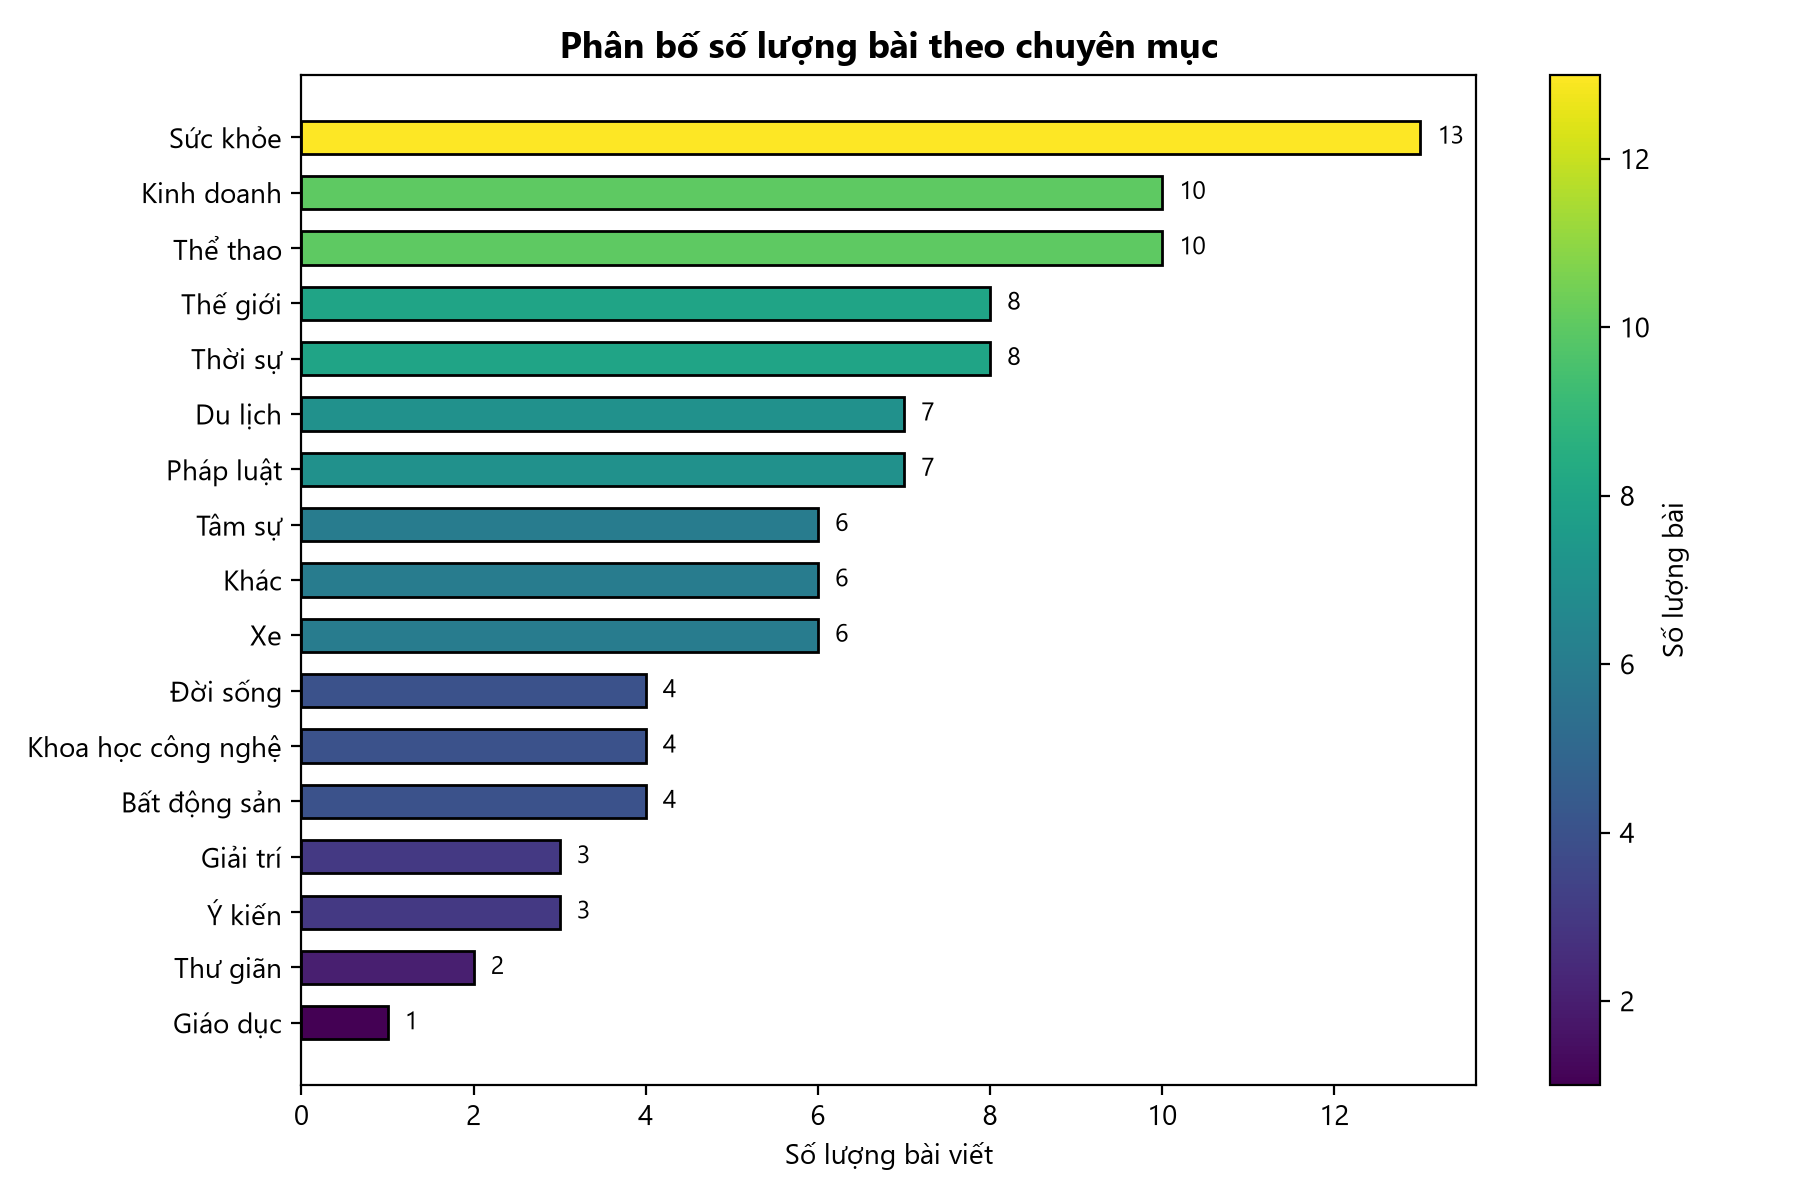
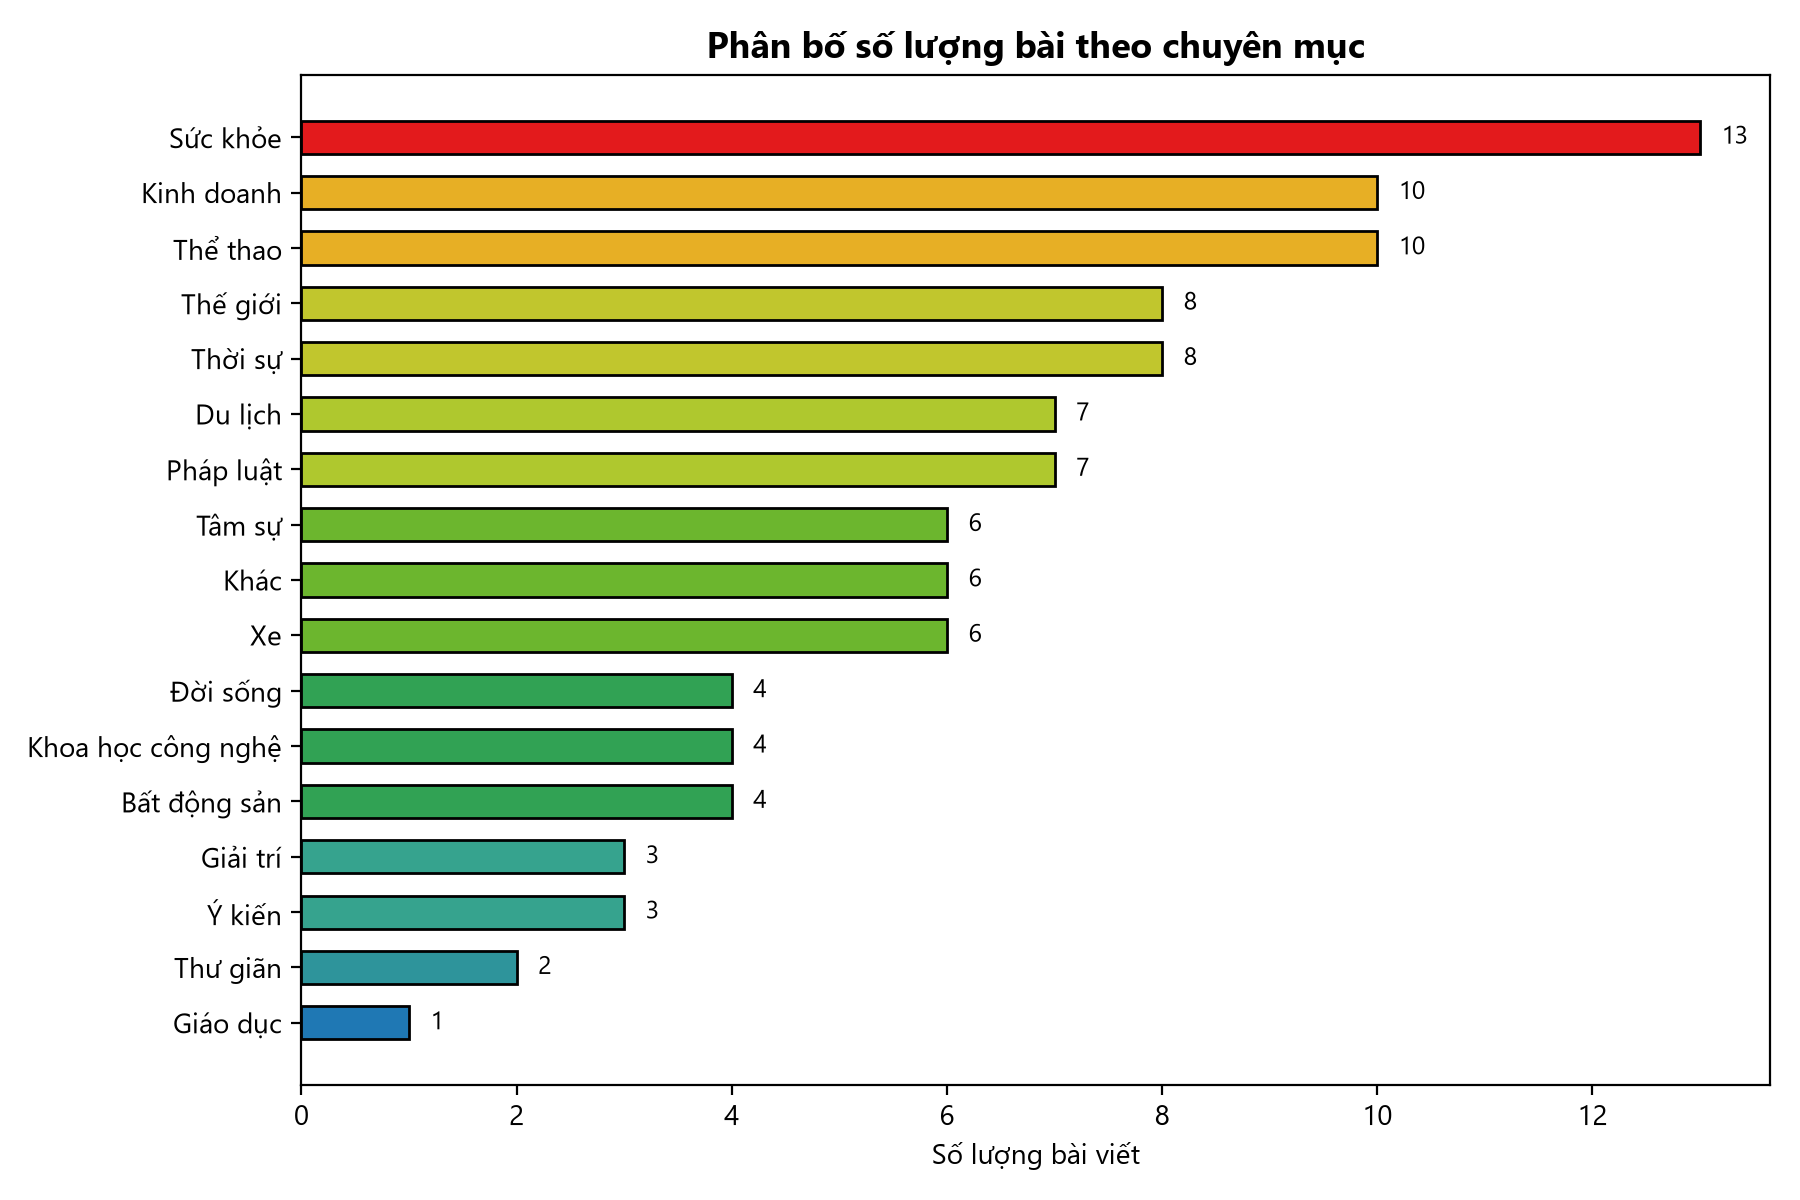
Đổi màu biểu đồ EDA sang bảng 20 màu rời (least=lam, avg=lục, most=đỏ)
- Bỏ gradient viridis + colorbar, thay bằng phân bậc rời cách đều trên [min, max]
- Chèn vàng/cam giữa xanh lá và đỏ để vùng chuyển không bị nâu do nội suy RGB
- Đường trung bình ở histogram đổi sang nét đứt xám đậm

diff --git a/EDA + charts/Charts.py b/EDA + charts/Charts.py
@@ -6,10 +6,6 @@ import pyodbc  # type: ignore
 import pandas as pd  # type: ignore
 # pyrefly: ignore[missing-import]
 import matplotlib.pyplot as plt  # type: ignore
-# pyrefly: ignore[missing-import]
-import matplotlib.cm as cm  # type: ignore
-# pyrefly: ignore[missing-import]
-import matplotlib.colors as mcolors  # type: ignore
 
 # Đảm bảo hiển thị tiếng Việt chuẩn trên Console và Biểu đồ
 sys.stdout.reconfigure(encoding="utf-8")
@@ -49,6 +45,25 @@ def luu_anh(fig, ten_file):
     plt.close(fig)
     print(f"[+] Đã lưu: {ten_file}")
 
+#Bảng 20 màu rời cách đều: thấp nhất = xanh biển -> giữa = xanh lá -> cao nhất = đỏ
+#Chèn vàng/cam giữa xanh lá và đỏ để vùng chuyển không bị nâu (lỗi nội suy RGB)
+PALETTE = ["#1f78b4", "#2786a7", "#2e949b", "#36a38e", "#34a473",
+           "#31a254", "#2da136", "#46a92d", "#6cb62e", "#93c32f",
+           "#afc82e", "#c1c62d", "#d4c32b", "#e2bd29", "#e7af25",
+           "#eca221", "#ef8f1e", "#eb681d", "#e7411d", "#e31a1c"]
+
+#Gán mỗi giá trị vào 1 trong 20 bậc màu cách đều nhau trên đoạn [min, max]
+def mau_theo_gia_tri(values):
+    vmin, vmax = min(values), max(values)
+    if vmax == vmin:
+        return [PALETTE[len(PALETTE) // 2]] * len(values)
+    buoc = (vmax - vmin) / (len(PALETTE) - 1)
+    mau = []
+    for v in values:
+        idx = min(max(int(round((v - vmin) / buoc)), 0), len(PALETTE) - 1)
+        mau.append(PALETTE[idx])
+    return mau
+
 #Phân tích khám phá dữ liệu (EDA) và xuất 4 biểu đồ ra 4 file PNG riêng
 def generate_eda_charts():
     df = get_data_from_sql()
@@ -74,27 +89,24 @@ def generate_eda_charts():
     print(df["category"].value_counts().to_string())
     print("===========================\n")
 
-    # 3. BIỂU ĐỒ 1: Phân bố chuyên mục (Bar Chart, màu gradient theo số bài)
+    # 3. BIỂU ĐỒ 1: Phân bố chuyên mục (Bar Chart, màu theo mốc least/avg/most)
     fig1, ax1 = plt.subplots(figsize=(9, 6))
     cat_counts = df["category"].value_counts().sort_values(ascending=True)
-    norm1 = mcolors.Normalize(vmin=cat_counts.min(), vmax=cat_counts.max())
-    bars1 = ax1.barh(cat_counts.index, cat_counts.values, color=cm.viridis(norm1(cat_counts.values)), edgecolor="black", height=0.6)
+    bars1 = ax1.barh(cat_counts.index, cat_counts.values, color=mau_theo_gia_tri(cat_counts.values), edgecolor="black", height=0.6)
     ax1.set_title("Phân bố số lượng bài theo chuyên mục", fontsize=13, fontweight="bold")
     ax1.set_xlabel("Số lượng bài viết")
     for b in bars1:
         w = b.get_width()
         ax1.text(w + 0.2, b.get_y() + b.get_height() / 2, f"{int(w)}", va="center", fontsize=9)
-    fig1.colorbar(cm.ScalarMappable(norm=norm1, cmap="viridis"), ax=ax1).set_label("Số lượng bài")
     luu_anh(fig1, "bieu_do_1_chuyen_muc.png")
 
-    # 4. BIỂU ĐỒ 2: Phân bố độ dài bài viết (Histogram, màu gradient theo tần số)
+    # 4. BIỂU ĐỒ 2: Phân bố độ dài bài viết (Histogram, màu theo mốc least/avg/most)
     fig2, ax2 = plt.subplots(figsize=(9, 6))
     mean_val = df["word_count"].mean()
     counts, _, patches = ax2.hist(df["word_count"], bins=12, edgecolor="white")
-    norm2 = mcolors.Normalize(vmin=0, vmax=counts.max() if counts.max() > 0 else 1)
-    for cnt, p in zip(counts, patches):
-        p.set_facecolor(cm.viridis(norm2(cnt)))
-    ax2.axvline(mean_val, color="red", linestyle="--", linewidth=1.5, label=f"Trung bình: {mean_val:.0f} từ")
+    for c, p in zip(mau_theo_gia_tri(list(counts)), patches):
+        p.set_facecolor(c)
+    ax2.axvline(mean_val, color="#333333", linestyle="--", linewidth=1.5, label=f"Trung bình: {mean_val:.0f} từ")
     ax2.set_title("Hình thái phân bố độ dài bài báo (số từ)", fontsize=13, fontweight="bold")
     ax2.set_xlabel("Số từ trong bài")
     ax2.set_ylabel("Số lượng bài viết")
@@ -115,12 +127,11 @@ def generate_eda_charts():
     ax3.set_title("Tỷ lệ nguồn tác giả", fontsize=13, fontweight="bold")
     luu_anh(fig3, "bieu_do_3_tac_gia.png")
 
-    # 6. BIỂU ĐỒ 4: Phân bố theo 24 khung giờ xuất bản (Bar Chart, màu gradient theo số bài)
+    # 6. BIỂU ĐỒ 4: Phân bố theo 24 khung giờ xuất bản (Bar Chart, màu theo mốc least/avg/most)
     fig4, ax4 = plt.subplots(figsize=(9, 6))
     hour_series = df["hour"].dropna().astype(int)
     hour_counts = hour_series.value_counts().reindex(range(24), fill_value=0)
-    norm4 = mcolors.Normalize(vmin=hour_counts.min(), vmax=hour_counts.max())
-    bars4 = ax4.bar(hour_counts.index, hour_counts.values, color=cm.viridis(norm4(hour_counts.values)), edgecolor="black", width=0.7)
+    bars4 = ax4.bar(hour_counts.index, hour_counts.values, color=mau_theo_gia_tri(hour_counts.values), edgecolor="black", width=0.7)
     ax4.set_title("Phân bố theo 24 khung giờ xuất bản", fontsize=13, fontweight="bold")
     ax4.set_xlabel("Khung giờ (0h - 23h)")
     ax4.set_ylabel("Số lượng bài đăng")
@@ -129,7 +140,6 @@ def generate_eda_charts():
         h = b.get_height()
         if h > 0:
             ax4.text(b.get_x() + b.get_width() / 2, h + 0.2, f"{int(h)}", ha="center", fontsize=8)
-    fig4.colorbar(cm.ScalarMappable(norm=norm4, cmap="viridis"), ax=ax4).set_label("Số lượng bài")
     luu_anh(fig4, "bieu_do_4_khung_gio.png")
 
     print("[+] Hoàn tất! Đã xuất 4 biểu đồ ra 4 file PNG riêng.")
